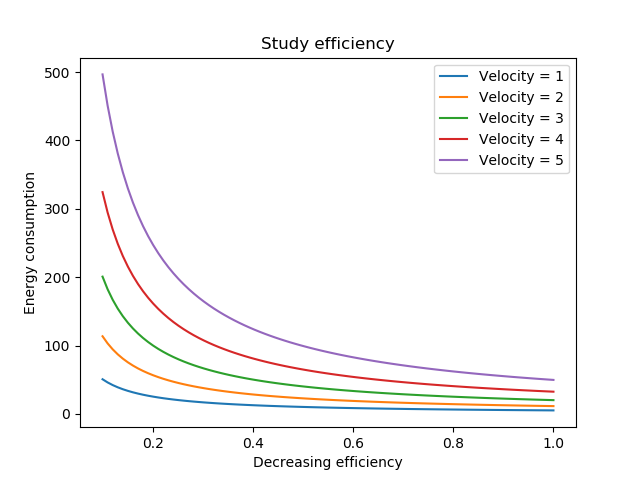
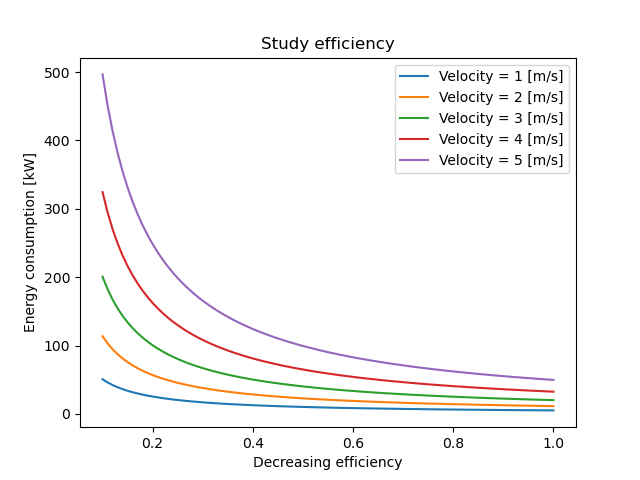
Html template commit

diff --git a/templates/study.html b/templates/study.html
@@ -9,13 +9,16 @@
 
 <h1 id="SubSectionCircuit">Assignment 1: Circuit Study</h1>
 
-<h2>Circuit Some Name</h2><table id="circuit"><tr><th>Types: </th><th>Tank</th><th>Pipe</th><th>Pump</th><th>Pipe</th><th>Valve</th><th>Bend</th><th>Pipe</th><th>Valve</th><th>Bend</th><th>Pipe</th><th>Filter</th><th>Pipe</th><th>Tank</th></tr><tr><td id="property">Name</td><td id="item_property">TI</td><td id="item_property">P1</td><td id="item_property">Pu1</td><td id="item_property">P2</td><td id="item_property">V1</td><td id="item_property">B1</td><td id="item_property">P3</td><td id="item_property">V2</td><td id="item_property">B2</td><td id="item_property">P4</td><td id="item_property">F1</td><td id="item_property">P5</td><td id="item_property">TE</td></tr><tr><td id="property">Inside Diameter</td><td id="empty_item_property"></td><td id="item_property">0.32</td><td id="empty_item_property"></td><td id="item_property">0.32</td><td id="empty_item_property"></td><td id="item_property">0.32</td><td id="item_property">0.32</td><td id="empty_item_property"></td><td id="item_property">0.32</td><td id="item_property">0.32</td><td id="empty_item_property"></td><td id="item_property">0.32</td><td id="empty_item_property"></td></tr><tr><td id="property">Length</td><td id="empty_item_property"></td><td id="item_property">10</td><td id="empty_item_property"></td><td id="item_property">10</td><td id="empty_item_property"></td><td id="empty_item_property"></td><td id="item_property">6</td><td id="empty_item_property"></td><td id="empty_item_property"></td><td id="item_property">10</td><td id="empty_item_property"></td><td id="item_property">10</td><td id="empty_item_property"></td></tr><tr><td id="property">Angle</td><td id="empty_item_property"></td><td id="item_property">0</td><td id="empty_item_property"></td><td id="item_property">0</td><td id="empty_item_property"></td><td id="empty_item_property"></td><td id="item_property">90</td><td id="empty_item_property"></td><td id="empty_item_property"></td><td id="item_property">0</td><td id="empty_item_property"></td><td id="item_property">0</td><td id="empty_item_property"></td></tr><tr><td id="property">Efficiency</td><td id="empty_item_property"></td><td id="empty_item_property"></td><td id="item_property">0.76</td><td id="empty_item_property"></td><td id="empty_item_property"></td><td id="empty_item_property"></td><td id="empty_item_property"></td><td id="empty_item_property"></td><td id="empty_item_property"></td><td id="empty_item_property"></td><td id="empty_item_property"></td><td id="empty_item_property"></td><td id="empty_item_property"></td></tr><tr><td id="property">Openness</td><td id="empty_item_property"></td><td id="empty_item_property"></td><td id="empty_item_property"></td><td id="empty_item_property"></td><td id="item_property">False</td><td id="empty_item_property"></td><td id="empty_item_property"></td><td id="item_property">True</td><td id="empty_item_property"></td><td id="empty_item_property"></td><td id="empty_item_property"></td><td id="empty_item_property"></td><td id="empty_item_property"></td></tr><tr><td id="property">Cleanliness</td><td id="empty_item_property"></td><td id="empty_item_property"></td><td id="empty_item_property"></td><td id="empty_item_property"></td><td id="empty_item_property"></td><td id="empty_item_property"></td><td id="empty_item_property"></td><td id="empty_item_property"></td><td id="empty_item_property"></td><td id="empty_item_property"></td><td id="item_property">True</td><td id="empty_item_property"></td><td id="empty_item_property"></td></tr></table>
-
 <p>
-    Look at it man
+    Representation of the circuit specified.
 </p>
 
-<h2>Boolean study</h2><h3>Study of valve setting at different velocities</h3><table><tr><th>Valves open: </th><th>two</th><th>one</th><th>zero</th></tr><tr><td>Velocity = 1m/s</td><td>6.46</td><td>6.66</td><td>6.87</td></tr><tr><td>Velocity = 2m/s</td><td>13.29</td><td>14.94</td><td>16.58</td></tr><tr><td>Velocity = 3m/s</td><td>20.85</td><td>26.41</td><td>31.98</td></tr><tr><td>Velocity = 4m/s</td><td>29.49</td><td>42.68</td><td>55.87</td></tr><tr><td>Velocity = 5m/s</td><td>39.58</td><td>65.34</td><td>91.1</td></tr></table><h3>Study of filter setting at different velocities</h3><table><tr><th>Filters clean: </th><th>one</th><th>zero</th></tr><tr><td>Velocity = 1m/s</td><td>6.66</td><td>6.91</td></tr><tr><td>Velocity = 2m/s</td><td>14.94</td><td>16.89</td></tr><tr><td>Velocity = 3m/s</td><td>26.41</td><td>33.0</td></tr><tr><td>Velocity = 4m/s</td><td>42.68</td><td>58.3</td></tr><tr><td>Velocity = 5m/s</td><td>65.34</td><td>95.85</td></tr></table>
+
+<h2>Circuit Some Name</h2><table id="circuit"><tr><th>Types: </th><th>Tank</th><th>Pipe</th><th>Pump</th><th>Pipe</th><th>Valve</th><th>Bend</th><th>Pipe</th><th>Valve</th><th>Bend</th><th>Pipe</th><th>Filter</th><th>Pipe</th><th>Tank</th></tr><tr><td id="property">Name</td><td id="item_property">TI</td><td id="item_property">P1</td><td id="item_property">Pu1</td><td id="item_property">P2</td><td id="item_property">V1</td><td id="item_property">B1</td><td id="item_property">P3</td><td id="item_property">V2</td><td id="item_property">B2</td><td id="item_property">P4</td><td id="item_property">F1</td><td id="item_property">P5</td><td id="item_property">TE</td></tr><tr><td id="property">Inside Diameter</td><td id="empty_item_property"></td><td id="item_property">0.32</td><td id="empty_item_property"></td><td id="item_property">0.32</td><td id="empty_item_property"></td><td id="item_property">0.32</td><td id="item_property">0.32</td><td id="empty_item_property"></td><td id="item_property">0.32</td><td id="item_property">0.32</td><td id="empty_item_property"></td><td id="item_property">0.32</td><td id="empty_item_property"></td></tr><tr><td id="property">Length</td><td id="empty_item_property"></td><td id="item_property">10</td><td id="empty_item_property"></td><td id="item_property">10</td><td id="empty_item_property"></td><td id="empty_item_property"></td><td id="item_property">6</td><td id="empty_item_property"></td><td id="empty_item_property"></td><td id="item_property">10</td><td id="empty_item_property"></td><td id="item_property">10</td><td id="empty_item_property"></td></tr><tr><td id="property">Angle</td><td id="empty_item_property"></td><td id="item_property">0</td><td id="empty_item_property"></td><td id="item_property">0</td><td id="empty_item_property"></td><td id="empty_item_property"></td><td id="item_property">90</td><td id="empty_item_property"></td><td id="empty_item_property"></td><td id="item_property">0</td><td id="empty_item_property"></td><td id="item_property">0</td><td id="empty_item_property"></td></tr><tr><td id="property">Efficiency</td><td id="empty_item_property"></td><td id="empty_item_property"></td><td id="item_property">0.76</td><td id="empty_item_property"></td><td id="empty_item_property"></td><td id="empty_item_property"></td><td id="empty_item_property"></td><td id="empty_item_property"></td><td id="empty_item_property"></td><td id="empty_item_property"></td><td id="empty_item_property"></td><td id="empty_item_property"></td><td id="empty_item_property"></td></tr><tr><td id="property">Openness</td><td id="empty_item_property"></td><td id="empty_item_property"></td><td id="empty_item_property"></td><td id="empty_item_property"></td><td id="item_property">False</td><td id="empty_item_property"></td><td id="empty_item_property"></td><td id="item_property">True</td><td id="empty_item_property"></td><td id="empty_item_property"></td><td id="empty_item_property"></td><td id="empty_item_property"></td><td id="empty_item_property"></td></tr><tr><td id="property">Cleanliness</td><td id="empty_item_property"></td><td id="empty_item_property"></td><td id="empty_item_property"></td><td id="empty_item_property"></td><td id="empty_item_property"></td><td id="empty_item_property"></td><td id="empty_item_property"></td><td id="empty_item_property"></td><td id="empty_item_property"></td><td id="empty_item_property"></td><td id="item_property">True</td><td id="empty_item_property"></td><td id="empty_item_property"></td></tr></table>
+
+<h3>Core attributes of circuit with velocity of 5 [m/s]</h3><ul><li>Reynolds number = 1185185</li><li>Flow = 0.4021 [m3/s]</li><li>Pressure losses due to height of circuit = 60332 [N/m2]</li><li>Pressure losses due to frictions in parts = 63165 [N/m2]</li><li>Theoretical energy usage of circuit = 49.66 [kW]</li><li>Actual energy usage of circuit = 65.34 [kW]</li></ul>
+
+<h2>Boolean study</h2><h3>Study of valve setting at different velocities</h3><table><tr><th>Valves open: </th><th>two</th><th>one</th><th>zero</th></tr><tr><td>Velocity = 1 [m/s]</td><td>6.46</td><td>6.66</td><td>6.87</td></tr><tr><td>Velocity = 2 [m/s]</td><td>13.29</td><td>14.94</td><td>16.58</td></tr><tr><td>Velocity = 3 [m/s]</td><td>20.85</td><td>26.41</td><td>31.98</td></tr><tr><td>Velocity = 4 [m/s]</td><td>29.49</td><td>42.68</td><td>55.87</td></tr><tr><td>Velocity = 5 [m/s]</td><td>39.58</td><td>65.34</td><td>91.1</td></tr></table><h3>Study of filter setting at different velocities</h3><table><tr><th>Filters clean: </th><th>one</th><th>zero</th></tr><tr><td>Velocity = 1 [m/s]</td><td>6.66</td><td>6.91</td></tr><tr><td>Velocity = 2 [m/s]</td><td>14.94</td><td>16.89</td></tr><tr><td>Velocity = 3 [m/s]</td><td>26.41</td><td>33.0</td></tr><tr><td>Velocity = 4 [m/s]</td><td>42.68</td><td>58.3</td></tr><tr><td>Velocity = 5 [m/s]</td><td>65.34</td><td>95.85</td></tr></table>
 
 <h2>Plots of differing attributes and their effect on energy consumption</h2><div id="image_study"><img src=Inside%20diameter%20study.png><img src=Efficiency%20study.png><img src=Height%20study.png></div>
 
